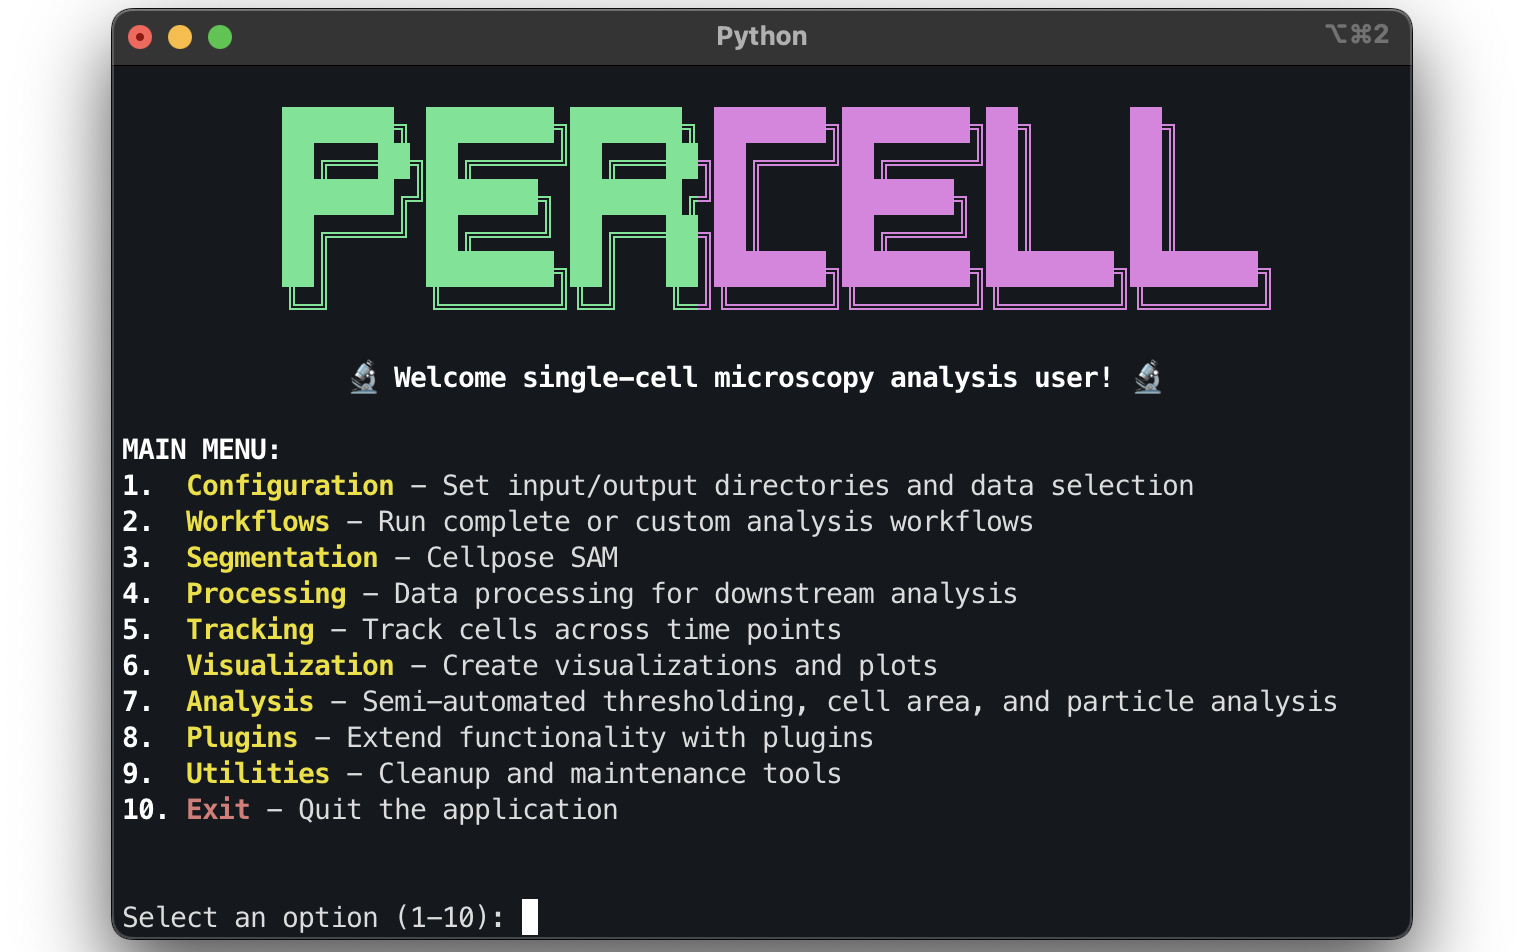
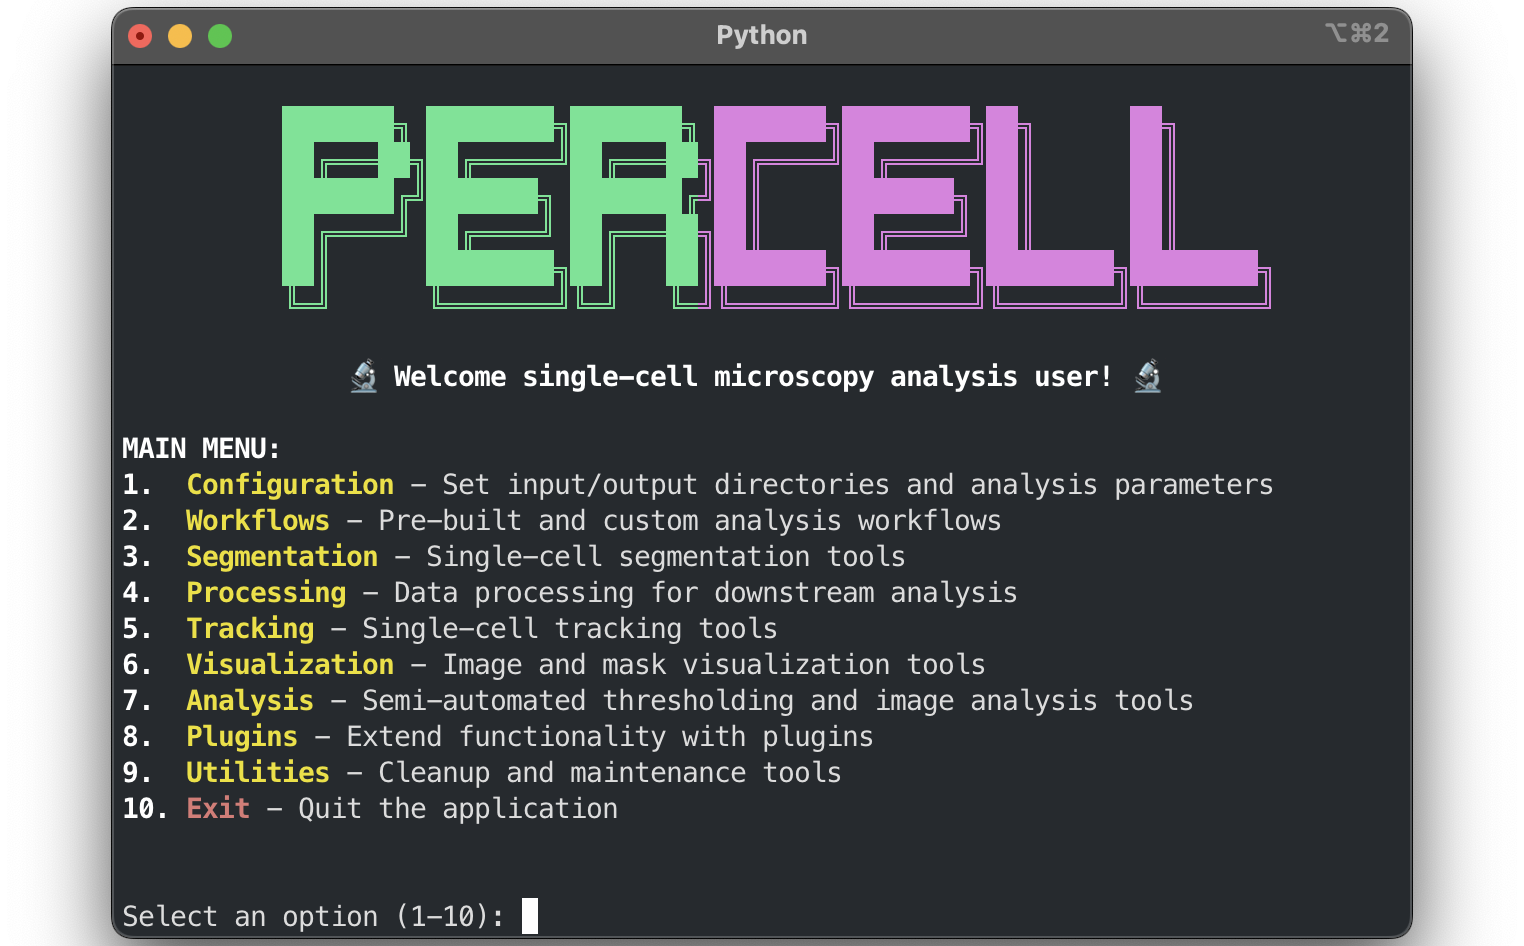
docs: update README with new UI naming conventions and terminal artwork
- Update terminal interface artwork to reflect latest UI improvements
- Change "Data Selection" references to "Analysis Parameters" throughout
- Update main menu descriptions to match current CLI text:
  * Configuration: "Set input/output directories and analysis parameters"
  * Workflows: "Pre-built and custom analysis workflows"
  * Segmentation: "Single-cell segmentation tools"
  * Tracking: "Single-cell tracking tools"
  * Visualization: "Image and mask visualization tools"
  * Analysis: "Semi-automated thresholding and image analysis tools"
- Update Configuration menu structure to show "Analysis Parameters" option
- Update workflow examples and reanalysis scenarios to use new naming
- Increment image version to v3 to reflect updated artwork

The documentation now accurately reflects the improved UI naming conventions
that provide clearer descriptions of functionality and better user guidance.

🤖 Generated with [Claude Code](https://claude.ai/code)

diff --git a/README.md b/README.md
@@ -1,6 +1,6 @@
 # PerCell
 
-<img src="percell/art/percell_terminal_window.png?v=2" width="900" title="Percell Terminal Interface" alt="Percell Terminal Interface" align="center">
+<img src="percell/art/percell_terminal_window.png?v=3" width="900" title="Percell Terminal Interface" alt="Percell Terminal Interface" align="center">
 
 [![Python 3.8+](https://img.shields.io/badge/python-3.8+-blue.svg)](https://www.python.org/downloads/)
 [![repo size](https://img.shields.io/github/repo-size/marcusjoshm/percell)](https://github.com/marcusjoshm/percell/)
@@ -106,7 +106,7 @@ You'll be prompted to select:
 
 **If you need to correct or refine your analysis**:
 - **Refine thresholding results?** → Use Analysis → Threshold Grouped Cells + Analysis → Particle Analysis
-- **Analyze different data subsets?** → Use Configuration → Data Selection + subsequent steps
+- **Analyze different data subsets?** → Use Configuration → Analysis Parameters + subsequent steps
 - **Custom analysis sequence needed?** → Use Workflows → Advanced Workflow Builder
 
 **Example Reanalysis Scenarios**:
@@ -115,7 +115,7 @@ You'll be prompted to select:
 Analysis → Threshold Grouped Cells → Analysis → Particle Analysis
 
 # Reanalyze with different data subset or parameters:
-Configuration → Data Selection → Segmentation → Cellpose → Processing → Single-Cell Data Processing → Analysis → Threshold Grouped Cells → Analysis → Particle Analysis
+Configuration → Analysis Parameters → Segmentation → Cellpose → Processing → Single-Cell Data Processing → Analysis → Threshold Grouped Cells → Analysis → Particle Analysis
 
 # Custom reanalysis sequence using Advanced Workflow:
 Workflows → Advanced Workflow Builder → Select: threshold_grouped_cells → analysis
@@ -261,13 +261,13 @@ When you run `percell`, you'll see the colorful multi-layer interactive menu sys
 🔬 Welcome single-cell microscopy analysis user! 🔬
 
 MAIN MENU:
-1.  Configuration - Set input/output directories and data selection
-2.  Workflows - Run complete or custom analysis workflows
-3.  Segmentation - Cellpose SAM
+1.  Configuration - Set input/output directories and analysis parameters
+2.  Workflows - Pre-built and custom analysis workflows
+3.  Segmentation - Single-cell segmentation tools
 4.  Processing - Data processing for downstream analysis
-5.  Tracking - Track cells across time points
-6.  Visualization - Create visualizations and plots
-7.  Analysis - Semi-automated thresholding, cell area, and particle analysis
+5.  Tracking - Single-cell tracking tools
+6.  Visualization - Image and mask visualization tools
+7.  Analysis - Semi-automated thresholding and image analysis tools
 8.  Plugins - Extend functionality with plugins
 9.  Utilities - Cleanup and maintenance tools
 10. Exit - Quit the application
@@ -283,8 +283,9 @@ The new multi-layer menu system organizes functionality into logical categories 
 ```
 CONFIGURATION MENU:
 1. I/O - Set input/output directories
-2. Data Selection - Select conditions, timepoints, regions, and channels for analysis
-3. Current Configuration - View current input/output directories and data selection
+2. Analysis Parameters - Select conditions, timepoints, channels, etc. for
+   processing and analysis
+3. Current Configuration - View current analysis configuration
 4. Back to Main Menu
 ```
 
@@ -371,7 +372,7 @@ Select an option (1-3): 1   # Default Workflow
 
 ### What the Default Workflow Does:
 
-1. **Data Selection** → Interactive selection of:
+1. **Analysis Parameters** → Interactive selection of:
    - Experimental conditions to analyze
    - Time points to include
    - Regions/fields to process
@@ -406,7 +407,7 @@ Select an option (1-3): 1   # Default Workflow
 
 ### User Interaction Points:
 
-- **Data Selection**: Choose which data to analyze
+- **Analysis Parameters**: Choose which data to analyze
 - **Segmentation**: Draw cell boundaries in ImageJ/Cellpose
 - **Thresholding**: Draw ROI areas for thresholding and decide on grouping
 
@@ -427,7 +428,7 @@ Select an option (1-3): 1   # Default Workflow
   - Output = new directory PerCell creates
   - Must be done for each experiment/dataset
 
-#### Configuration → Data Selection
+#### Configuration → Analysis Parameters
 - **Purpose**: Choose specific data subsets for analysis
 - **Use**: Select conditions, timepoints, regions, channels
 - **Required**: Must be run before other analysis steps
